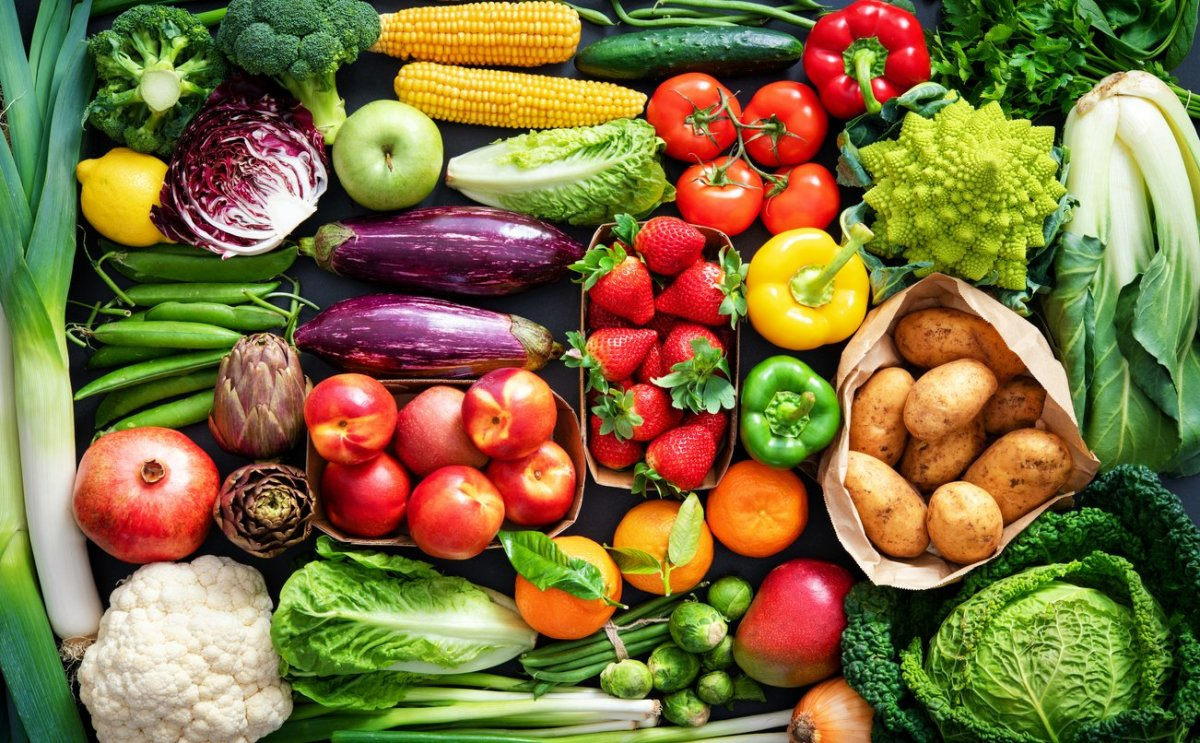
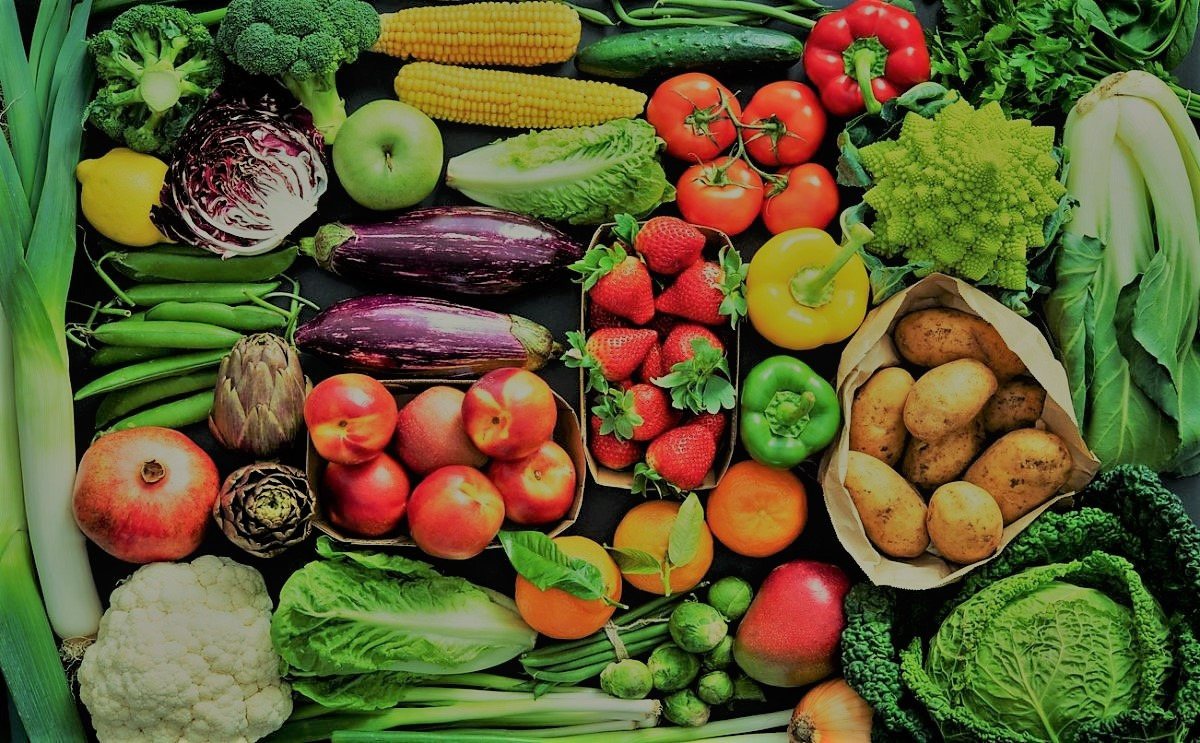
update home page

diff --git a/index.html b/index.html
@@ -11,25 +11,36 @@
     <!-- Libraries -->
     <link href="https://cdn.jsdelivr.net/npm/bootstrap@5.3.0/dist/css/bootstrap.min.css" rel="stylesheet"
         integrity="sha384-9ndCyUaIbzAi2FUVXJi0CjmCapSmO7SnpJef0486qhLnuZ2cdeRhO02iuK6FUUVM" crossorigin="anonymous">
+    <link rel="stylesheet" href="https://cdnjs.cloudflare.com/ajax/libs/animate.css/4.1.1/animate.min.css"
+        integrity="sha512-c42qTSw/wPZ3/5LBzD+Bw5f7bSF2oxou6wEb+I/lqeaKV5FDIfMvvRp772y4jcJLKuGUOpbJMdg/BTl50fJYAw=="
+        crossorigin="anonymous" referrerpolicy="no-referrer" />
     <link rel="stylesheet" href="https://cdn.jsdelivr.net/npm/bootstrap-icons@1.10.5/font/bootstrap-icons.css">
     <title>Document</title>
 </head>
+
 <body>
     <header>
-        <span id="welcome-text"></span>
+        <img src="https://assets.website-files.com/6324e3832b39da01febfb1c6/635b822aee8eff067ac2da8f_logo%20(3).svg" alt="">
+        <nav>
+            <a href="">Home</a>
+            <a href="">About</a>
+            <a href="">Menu</a>
+            <a href="">Blog</a>
+        </nav>
+        <span id="welcome-text" class="header-text"></span>
         <button id="Auth-btn">Log out</button>
     </header>
     <main>
         <section class="opening">
-            <div class = "head-text">
-                <h1 class="white">Skip The</h1>
-                <h1 class="yellow">&nbspDiet,</h1>
+            <div class="head-text">
+                <h1 class="text white">Skip The</h1>
+                <h1 class="text yellow">&nbspDiet,</h1>
             </div>
-            <div class = "head-text">
-                <h2 class="white">Just Eat</h2>
-                <h2 class="yellow">&nbspHealthy</h2>
+            <div class="head-text">
+                <h2 class="text white">Just Eat</h2>
+                <h2 class="text yellow">&nbspHealthy</h2>
             </div>
-            <div class = "head-text">
+            <div class="head-text">
                 <h4 class="white">Imagine you don’t need a diet because we provide healthy and</h4>
                 <h4 class="white">&nbspdelicious food for you!</h4>
             </div>
@@ -38,6 +49,12 @@
     <footer></footer>
     <!-- Script -->
     <!-- Script -->
+    <script src="https://cdnjs.cloudflare.com/ajax/libs/wow/1.1.2/wow.min.js"
+        integrity="sha512-Eak/29OTpb36LLo2r47IpVzPBLXnAMPAVypbSZiZ4Qkf8p/7S/XRG5xp7OKWPPYfJT6metI+IORkR5G8F900+g=="
+        crossorigin="anonymous" referrerpolicy="no-referrer"></script>
+    <script>
+        new WOW().init();
+    </script>
     <script type="module" src="firebase/checkLoginStatus.js"></script>
     <script type="module" src="firebase/index.js"></script>
     <script src="firebase/logout.js" type="module"></script>

diff --git a/styles/home.css b/styles/home.css
@@ -11,11 +11,32 @@
     justify-content: center;
     align-items: center;
 }
+.opening .head-text .text{
+    font-size: 72px;
+    font-weight: 400;
+    line-height: 1.2em;
+}
 .opening .head-text .white{
     font-family:'Times New Roman', Times, serif ;
     color: #fff;
 }
 .opening .head-text .yellow{
     font-family:'Times New Roman', Times, serif ;
-    color: #f7ca02;
+    color: #ffc222;
+}
+
+
+
+
+
+
+header{
+    background-color: rgba(0, 0, 0, 0.788);
+    display: flex;
+    flex-direction: row;
+    justify-content: space-between;
+}
+header .header-text{
+    color: #fff;
+    text-decoration: none;
 }
